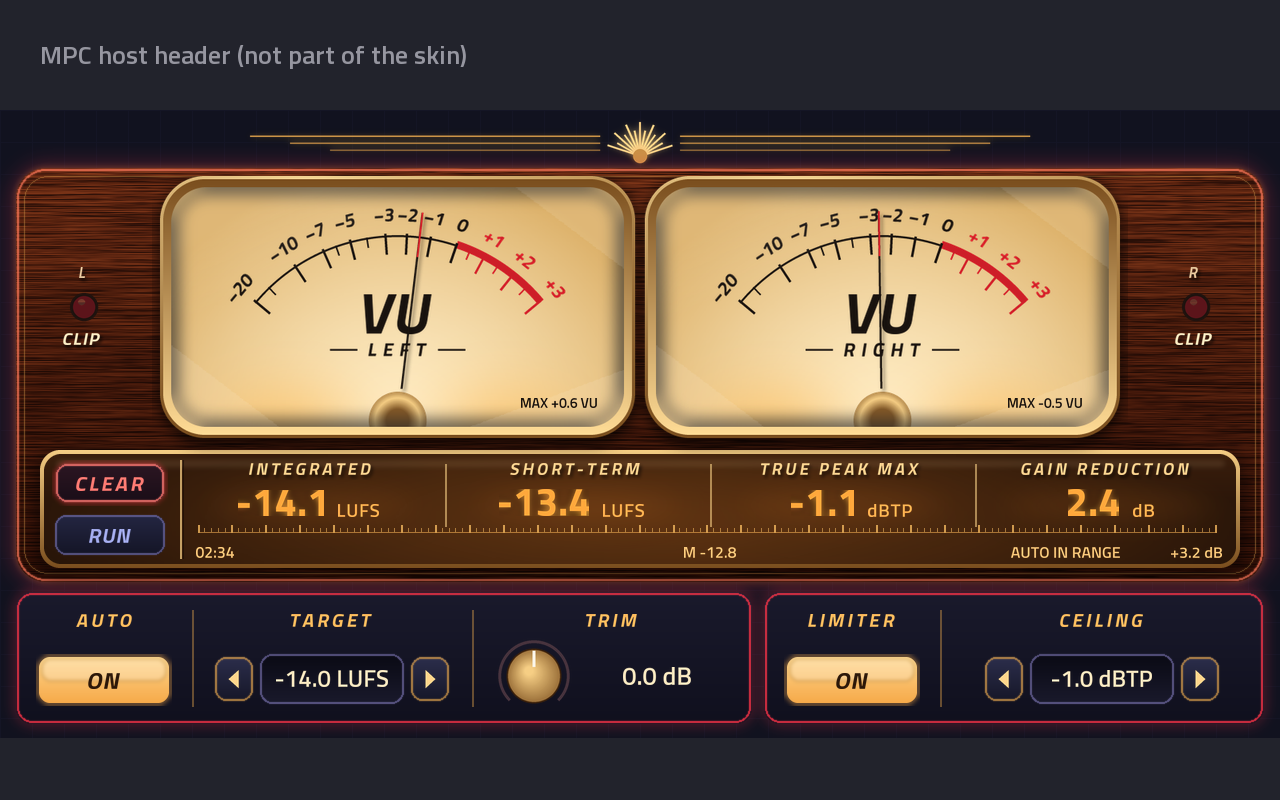
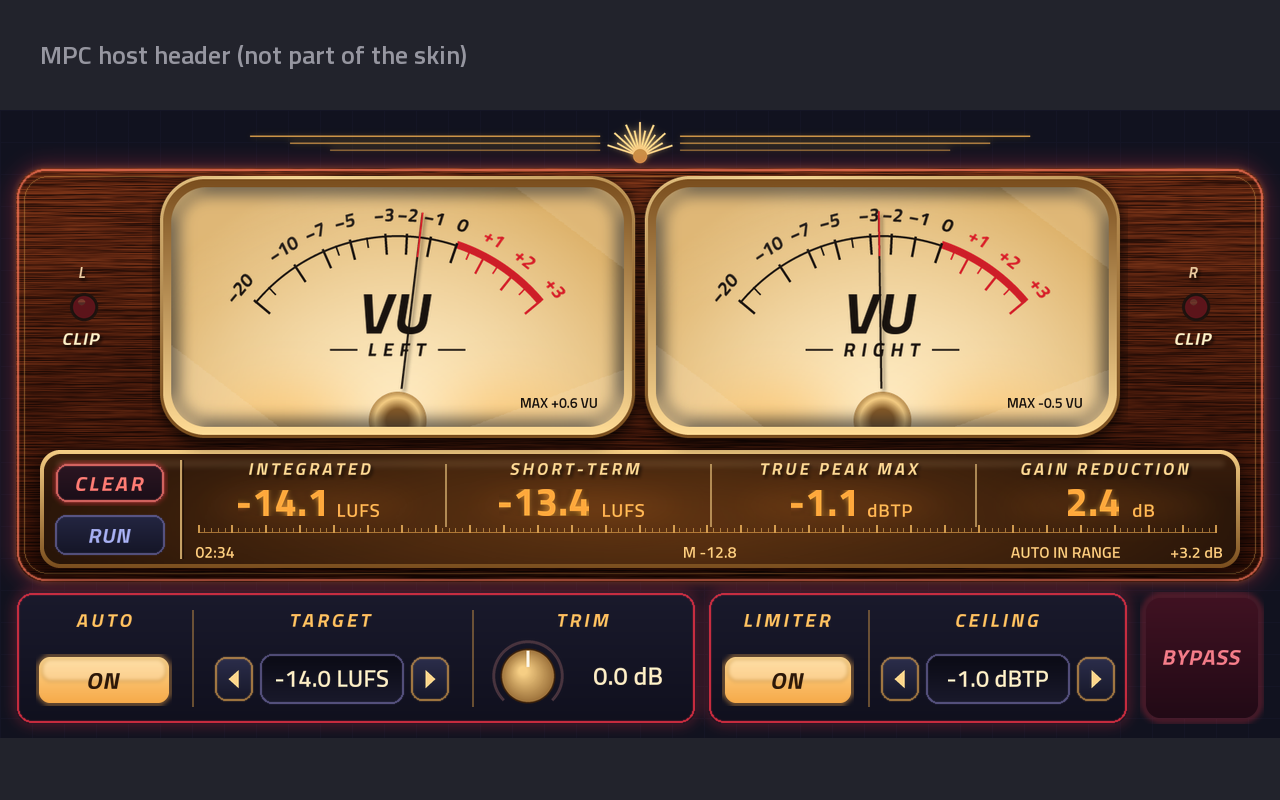
LUFS tab: BYPASS button (the same global Bypass as METER; Q-Link 11)

Changed region(s): [[0.6562, 0.7188, 1.0, 0.9062], [0.375, 0.7188, 0.6875, 0.9062], [0.4375, 0.75, 0.5, 0.7812]]

diff --git a/scripts/gen_skins.py b/scripts/gen_skins.py
@@ -16,7 +16,7 @@ LUFS tab:
   * smoked-glass tuning strip: INTEGRATED | SHORT-TERM | TRUE PEAK MAX | GAIN REDUCTION
     Labels, plus AUTO status / auto gain / momentary / elapsed
     (CLEAR and RUN/HOLD sit at the strip's left end: they control the measurement)
-  * GAIN card: AUTO | TARGET < > | TRIM knob;  OUTPUT card: LIMITER | CEILING < >
+  * GAIN card: AUTO | TARGET < > | TRIM knob;  OUTPUT card: LIMITER | CEILING < >;  BYPASS
 SETUP tab: CALIBRATION | CLIP LEVEL, then LIGHT (STATIC | REACT + palette | CYCLE + rate).
 The plugin is stereo only; the retired mono parameters have no widgets.
 """
@@ -194,6 +194,7 @@ def main():
     # GAIN card (AUTO | TARGET | TRIM) and OUTPUT card (LIMITER | CEILING)
     lufs.append(button('lufs auto', 'lufs_auto', 1, 1, P('LUFS Auto'), L.lufs_toggle('gain')))
     lufs.append(button('limiter', 'lufs_lim', 1, 1, P('Limiter'), L.lufs_toggle('output')))
+    lufs.append(button('lufs bypass', 'bypass_lufs', 1, 1, P('Bypass'), L.LUFS_BYPASS))   # the one global Bypass
     for card, value, down, up in (('gain', 'Target', 'Target Down', 'Target Up'), ('output', 'Ceiling', 'Ceiling Down', 'Ceiling Up')):
         lft, pill, rgt = L.lufs_stepper(card)
         lufs.append(button(down.lower(), 'arrow_l', 1, 1, P(down), lft))
@@ -251,7 +252,8 @@ def main():
     for ql, name in ((13, '0 VU'), (14, 'Clip Level'), (15, 'Light'), (16, 'Palette'), (9, 'Cycle Rate')):
         q2['Q-Link %d' % ql] = IDX[name]
     q3 = {'Q-Link %d' % i: -1 for i in range(1, 17)}   # LUFS tab (q2 is SETUP, now the third tab)
-    for ql, name in ((13, 'Target'), (14, 'Ceiling'), (15, 'Trim'), (16, 'LUFS Auto'), (9, 'Limiter'), (10, 'Measure')):
+    for ql, name in ((13, 'Target'), (14, 'Ceiling'), (15, 'Trim'), (16, 'LUFS Auto'), (9, 'Limiter'), (10, 'Measure'),
+                     (11, 'Bypass')):
         q3['Q-Link %d' % ql] = IDX[name]
     prog = {'Q-Link %d' % i: -1 for i in range(1, 17)}
     for i, name in enumerate(('Trim', 'Bypass', 'Peak Hold', '0 VU', 'Clip Level', 'Light', 'Palette', 'Cycle Rate',

diff --git a/scripts/skin_layout.py b/scripts/skin_layout.py
@@ -477,21 +477,23 @@ MOMENTARY_RECT = (int(READOUT_X0 + READOUT_W / 2 - 100), STATUS_ROW_Y, 200, 28)
 AUTO_GAIN_RECT = (DIAL_STRIP[0] + DIAL_STRIP[2] - 18 - 96, STATUS_ROW_Y, 96, 28)
 STATUS_RECT = (AUTO_GAIN_RECT[0] - 250, STATUS_ROW_Y, 244, 28)
 
-# Bottom cards: GAIN (AUTO | TARGET | TRIM: everything that sets the level) and OUTPUT
-# (LIMITER | CEILING: protection after the gain). Sections are (title, x0, x1) inside the card.
+# Bottom cards: GAIN (AUTO | TARGET | TRIM: everything that sets the level), OUTPUT
+# (LIMITER | CEILING: protection after the gain) and BYPASS (the same global Bypass as on METER).
+# Sections are (title, x0, x1) inside the card.
 LUFS_CARDS = {                                 # x, y, w, h
-    'gain':   (16, 482, 736, 132),
-    'output': (764, 482, 500, 132),
+    'gain':   (16, 482, 680, 132),
+    'output': (708, 482, 420, 132),
 }
 LUFS_SECTIONS = {
-    'gain':   [('AUTO', 0, 176), ('TARGET', 176, 456), ('TRIM', 456, 736)],
-    'output': [('LIMITER', 0, 176), ('CEILING', 176, 500)],
+    'gain':   [('AUTO', 0, 176), ('TARGET', 176, 456), ('TRIM', 456, 680)],
+    'output': [('LIMITER', 0, 160), ('CEILING', 160, 420)],
 }
+LUFS_BYPASS = (1140, 482, 124, 132)            # a BYPASS button the size of its card
 
 
 def lufs_toggle(card):
     x, y, w, h = LUFS_CARDS[card]
-    return (x + 20, y + 62, 136, 52)
+    return (x + 14, y + 62, 132, 52) if card == 'output' else (x + 20, y + 62, 136, 52)
 
 
 def lufs_stepper(card):
@@ -503,5 +505,5 @@ def lufs_stepper(card):
 
 
 _gx, _gy = LUFS_CARDS['gain'][0], LUFS_CARDS['gain'][1]
-LUFS_KNOB = (_gx + 480, _gy + 46, KNOB_SIZE, KNOB_SIZE)
-LUFS_TRIM_VALUE = (_gx + 566, _gy + 60, 150, 48)
+LUFS_KNOB = (_gx + 474, _gy + 46, KNOB_SIZE, KNOB_SIZE)
+LUFS_TRIM_VALUE = (_gx + 552, _gy + 60, 120, 48)

diff --git a/scripts/make_skin_art.py b/scripts/make_skin_art.py
@@ -666,6 +666,7 @@ def make_controls():
     pair('arrow_l', lft, '<', 'arrow')
     pair('arrow_r', rgt, '>', 'arrow')
     pair('clear', L.CLEAR_BUTTON, 'CLEAR', 'clear', size=21)
+    pair('bypass_lufs', L.LUFS_BYPASS, 'BYPASS', 'bypass', size=22)
     _, _, w, h = L.HOLD_BUTTON
     save(button(w, h, 'HOLD', 'seg', True, 21), 'hold_on.png')
     save(button(w, h, 'RUN', 'seg', False, 21), 'hold_off.png')
@@ -913,6 +914,7 @@ def lufs_preview(lbg, faces, light_i=0, hue=0.0, out='preview-lufs.png', limiter
     vx, vy, vw, vh = L.LUFS_TRIM_VALUE
     put_text(page, '0.0 dB', 26, L.CREAM + (255,), (vx + vw / 2.0, vy + vh / 2.0), slant=0.0, semi=True)
     btn('clear', L.CLEAR_BUTTON, False)
+    btn('bypass_lufs', L.LUFS_BYPASS, False)
     btn('hold', L.HOLD_BUTTON, False)
     screen = Image.new('RGBA', (L.W, 800), (34, 35, 44, 255))
     ImageDraw.Draw(screen).text((40, 34), 'MPC host header (not part of the skin)', fill=(150, 150, 160, 255), font=font(26, True))

diff --git a/docs/CONTROLS.md b/docs/CONTROLS.md
@@ -41,6 +41,7 @@ Layout: the readout strip holds the **measurement** controls at its left end (CL
 | **CEILING** ◀ ▶ | 14 | −6.0 … −0.1 dBTP in 0.1 steps (default −1.0). The highest true peak the LIMITER lets through. **With LIMITER off the ceiling does nothing**; watch for CLIP RISK. |
 | **CLEAR** | – | Restarts INTEGRATED, TRUE PEAK MAX, the elapsed time and AUTO's estimate. It never changes the gain, so the audio does not jump. Settings are untouched. |
 | **RUN / HOLD** | 10 | HOLD freezes INTEGRATED, TRUE PEAK MAX and the time; SHORT-TERM and M stay live, and AUTO keeps working. It is a measurement hold, not a mute. |
+| **BYPASS** | 11 | The same Bypass as on METER: either button switches both. Bypass skips everything (AUTO, TRIM and LIMITER); the output is the input, bit for bit. With LIMITER on the output keeps its 3.2 ms delay, so timing does not jump. |
 | CLIP lamps (either side) | – | Same as on METER; tap to reset. |
 
 Measurements are not saved with the project: after loading, every reading starts empty. Settings are saved.
